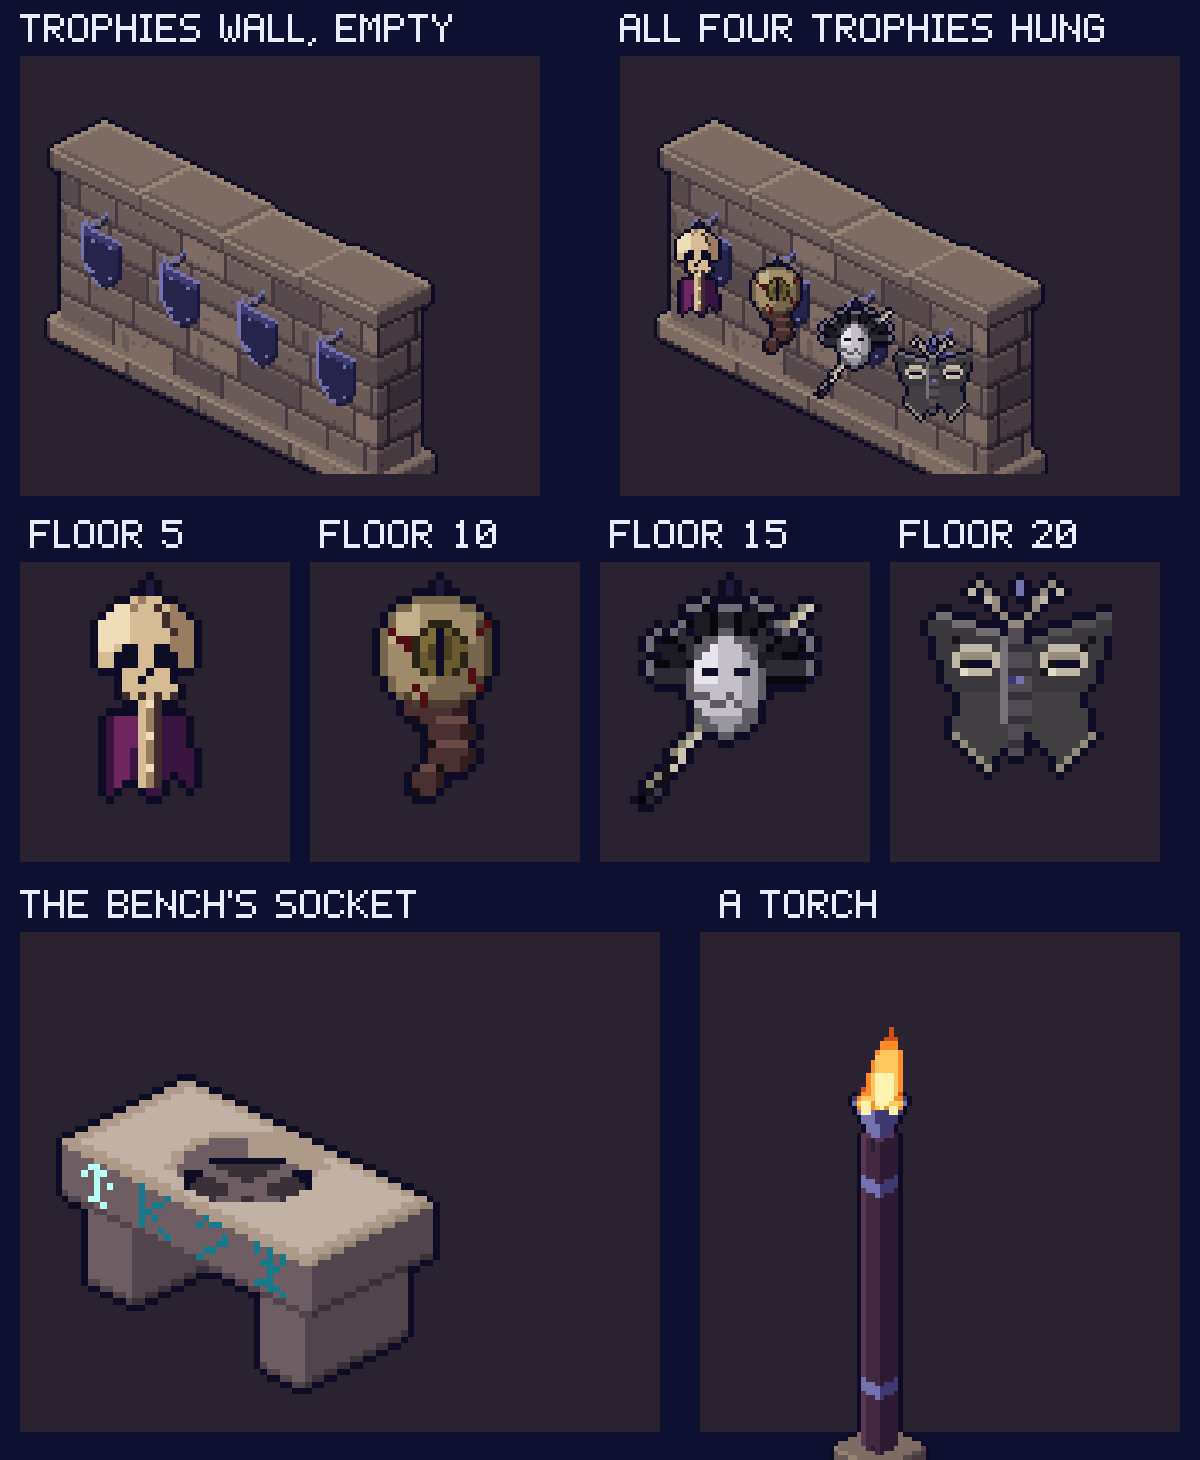
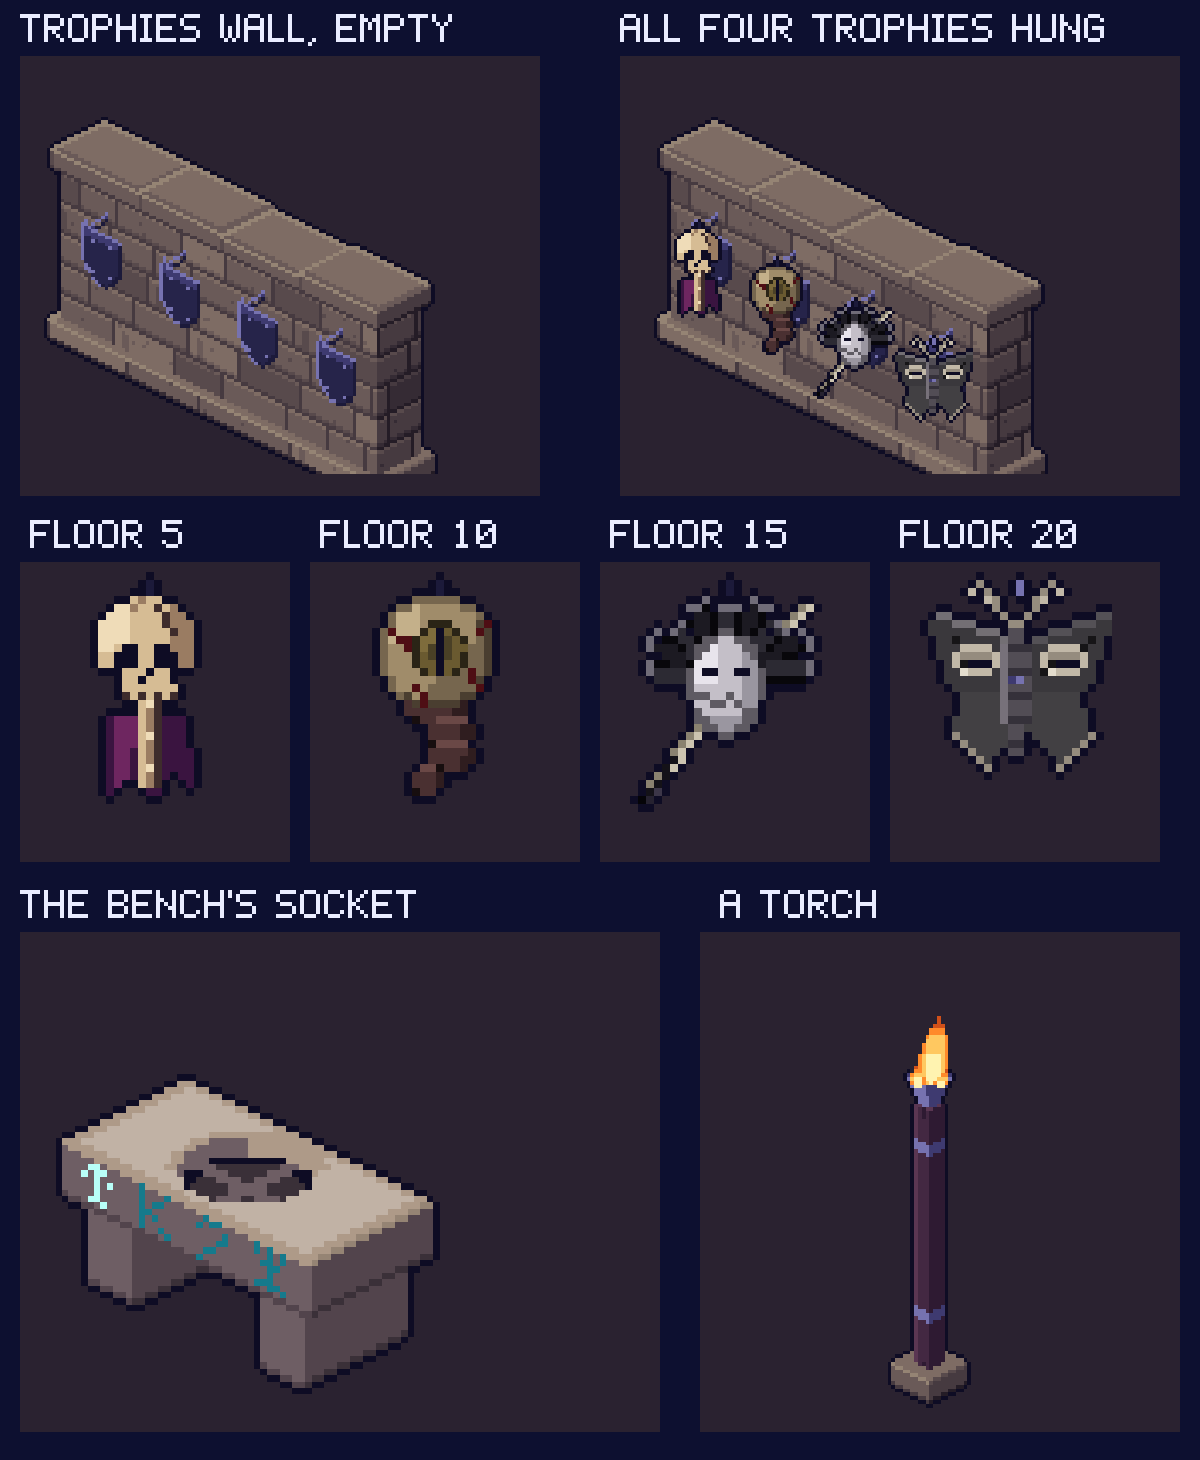
Endless town, step 4: the gate, the record stone, the trophies wall, the bench's socket and the torches drawn to the game's standard; the town alive
src/art/shaft_props.ts behind ENDLESS_TOWN (off; nothing of the game imports it): the gate standing free with its three word
sockets, the record stone and its notches (70 places), the trophies wall with four mounts (empty, or the Fleshmancer's,
the Swamp Colossus's, the Censor's, the Moth's trophy), the wordsmith's slab with the tablet's socket, four torches on posts
(12 flame frames at 30 a second). rimPieces() lays each: its tile, anchor, blocked tiles. RIM_LAYOUT.torches mended.
Pictures props_phone_1/2, rim3_whole, rim3_view_1/2, rim3_measure; the film rim_town.mp4 (tools/rim_town_film.mjs).
tests/shaft_rim.test.ts: the switch and imports, crisp, no enemy glow, each on the floor blocking its own tile, the flame whole.

Claude-Session: https://claude.ai/code/session_013AACgPRU4FucfYyJnBGYM1

Changed region(s): [[0.6783, 0.6781, 0.8325, 1.0]]

diff --git a/src/dev/preview_shaft_rim.ts b/src/dev/preview_shaft_rim.ts
@@ -1044,8 +1044,8 @@ function main3(mode: string, out: HTMLCanvasElement): void {
     draw(slab, 30, 940, 6.4);
     cap(g, 'A torch', 720, 890);
     pave(700, 932, 480, 500);
-    draw(paintTorchPost(), 820, 940, 4.6);
-    draw(paintTorchFlame(3), 820, 940, 4.6);
+    draw(paintTorchPost(), 880, 944, 3.8);
+    draw(paintTorchFlame(3), 880, 944, 3.8);
   }
   done();
 }

diff --git a/docs/mockups/endless_town/README.md b/docs/mockups/endless_town/README.md
@@ -385,3 +385,138 @@ the hand-over between passes is hidden under the brink and that the canyon's doo
 Shaft's Rim's stair right now, with its slope (pit_phone.png)?”, he answered: “Yes, draw the rest (Recommended)” (offered as:
 next, the gate, the record stone, the trophies wall, the socket in the bench and the torches, then a film of the town alive).
 SO THE GROUND, THE PIT AND ITS STAIR HAVE HIS YES. Next, step 4: the new things that stand on it, a film, and the hand-over.
+
+## Step 4: the things that stand on the rim, drawn to the game's standard; the town alive (11 Nov 2026)
+
+On his yes of 13:06 (“Yes, draw the rest (Recommended)”). The ground, the pit, the stair, the kerb and the landing are as he
+said yes to them, unchanged. Every station is on its locked tile.
+
+### What was drawn (`src/art/shaft_props.ts`, behind `ENDLESS_TOWN`, off; nothing of the game imports it)
+
+Each is built the way the town's own things are (`art/town.ts`): boxes on the grid (`art/isokit.ts`), two picture pixels to a
+game pixel, the game's dark seam round each, lit from the upper left. The stone is the shaft's top stone (the town storey of the
+splash), weathered darker.
+1. **THE GATE** (`paintGate`): an arch standing free at the back with no wall round it, on a worn plinth. Big dressed blocks in
+   courses, a ring of eleven wedge stones and a keystone round the doorway, one long lintel stone, a cap of five stones with the
+   last one broken off, and an old crack down the left pillar. The doorway opens on the dark: a plane of night halfway through
+   it. You can see the left jamb's inner side, and the threshold under it. On the lintel are **three round sockets**: dressed
+   rims, black hollows with a dim teal edge, empty, and no light.
+2. **THE RECORD STONE** (`paintRecord(n, newest)`): one tall slab with a rounded, leaning shoulder (built slice by slice, so it
+   is a real shape), on a foot of rough stones, with weather streaks. **The notches** are tally cuts in rows of ten: four upright
+   cuts and a fifth across them, each a dark cut with its far wall catching the light. There is room for 70 (seven rows). The
+   newest can glow the friend's cyan, with a small cyan light.
+3. **THE TROPHIES WALL** (`paintTrophyWall`, `paintTrophies(held)`, `paintTrophy(k)`): a low coursed wall with a cap. It has
+   **four mounts**, each an iron plate set in the wall with rivets and an iron bracket arm with a hook. The bosses are the ones
+   the game gives floors 5, 10, 15 and 20 (`game/bosses.ts` bossKind, `game/act1.ts`). Each trophy is made from that boss's own
+   look and colours, is original, and gives no light:
+   - floor 5, **the Fleshmancer**: the skull from his staff, burnt out, the sockets black, on the stub of his fused-bone staff,
+     with a rag of his plum robe;
+   - floor 10, **the Swamp Colossus** (its redo, `art/eye_colossus.ts`): the eye from the end of its tongue, put out. The white
+     has gone yellow and veined, the gold iris is dead to a dull brown, the slit is shut, and the tongue's stump hangs in its
+     sections;
+   - floor 15, **the Censor**: his blank white mask, cracked across, on his fan of black pages, with his brush across behind;
+   - floor 20, **the Moth**: its ash wings pinned open on a furred body, with feathered feelers, and the eye on each wing shut
+     for good.
+4. **THE TABLET'S SOCKET** (`paintSocketSlab(stone, frame)`): the game's own wordsmith's slab, with its feet, its runes along
+   the front, the word that lifts off it and its eight frames. The great rune in its top has given way to a round hollow cut in
+   four: the far wall of the hollow shows, and its floor is split by two ribs. It is empty.
+5. **THE FOUR TORCHES ON POSTS** (`paintTorchPost`, `paintTorchFlame(f)`): a squared post of the game's plum wood, aged dark,
+   with iron bands, on a stone foot, and an iron cup with three prongs at the head. The flame is the game's fire (`tongue`,
+   `EMBER`): a tall tongue and two small ones, 12 frames at 30 a second, with a warm pool of light on the paving.
+
+### ONE LIST FOR THE MAIN CHAT: everything the town gives and how to lay it
+
+Tiles are on the rim's 24 x 24 grid, and a tile is 32 x 16 game pixels. "Anchor" is the middle of a thing's foot, as the
+game's things have it.
+- **The ground**, as step 3 left it: `rimPlace()` gives `walk` (0 rock, 1 floor, 2 the pit), `town` (the game's own things on
+  their tiles) and `more`; `paintRimGround()` gives one picture (1360 x 776, top left at `GROUND.gx, gy`). There are 27 kerb
+  and landing posts (`rimPosts()`, `paintPost()`), the shaft's torches (`shaftTorches()`, `paintFlame(f)`, 12 frames at 30 a
+  second), and the far fire (`paintPitGlow()`, added at `pitGlowAt(t)`, a 2.6 s breath).
+- **The new things**, from `rimPieces()`: each has its station's tile, the floor point its anchor is laid on (`at`), the
+  tiles it blocks, and a point to sort it in depth by (`depth`, bigger x + y is nearer):
+  - gate: tile 7, 6; anchor at 8.5, 6.5; blocks 7, 6; 8, 6; 9, 6. Picture 124 x 210 (62 x 105 game pixels).
+  - record: tile 5, 9; anchor at 5.5, 9.5; blocks 5, 9. Picture 52 x 156.
+  - trophies: tile 10, 5; anchor at 11.5, 5.5; blocks 10, 5; 11, 5; 12, 5. Picture 124 x 120.
+  - four torches: at 6.6, 14.2 (by the stash); 6.6, 16.6 (by the Lexicon); 16.35, 11.6 (by the tent); 6.8, 9.3 (by the
+    record). Each blocks its own tile. Picture 26 x 124 for the post and for each flame frame (the same anchor).
+  - the wordsmith's slab with the socket: on the game's runeSlab tile (10, 18). It takes the place of the game's slab
+    picture, eight frames, picture 68 x 76.
+- **The three word sockets** (`GATE_SOCKETS`): their middles in game pixels from the gate's anchor are (-15.1, -63.4),
+  (-4.1, -57.9) and (6.9, -52.4), radius 3. The game draws its three words there (the towns now show them only in the gate's
+  panel, `ui/town.ts` gateSide).
+- **The notches** (`RECORD_NOTCHES`, 70 places): an upright's top, or the ends of the fifth across, in game pixels from the
+  record's anchor (the first is at (-7.4, -51.6)). An upright is one picture pixel wide and 3 game pixels tall. The record is
+  one picture, painted again when a notch is cut (about 2 to 3 ms): `paintRecord(n, newest)`.
+- **The four mounts** (`TROPHY_MOUNTS`, `TROPHY_BOSSES`): the hooks are at (-22.5, -26.5), (-11, -21), (0.5, -15) and
+  (12, -9.5) game pixels from the wall's anchor, in order for floors 5, 10, 15 and 20. Each mount is empty (bracket and plate)
+  or filled (that boss's trophy, 24 x 30, hung by its top middle from the hook). `paintTrophies(held)` makes the one picture.
+- **The bench's socket** (`BENCH_SOCKET`): its middle is (0, -11) game pixels from the slab's anchor, its radius 0.24 of a tile
+  (on the screen 5.4 by 2.7 game pixels), and it is 1.5 game pixels deep. The tablet and its quarters are set there.
+- **What moves, and at what rate**: each torch's flame, 12 frames at 30 a second, each torch at its own phase. The slab's word,
+  eight frames, as the game's. The shaft's torches and the far fire, as in step 3. Nothing else of the new things moves.
+- **The lights**: each torch frame has two orange lights (`EMBER`): the flame (r 11 to 12 game pixels, 0.5) and the pool on the
+  paving (r 23 to 24, 0.24). The newest notch has a cyan light (r 4.5 to 5, 0.45) when asked for. The slab keeps the game's own
+  cyan. The gate's sockets and the trophies give none. Nothing pink or gold glows on the rim.
+- **What it costs, measured** in this session's headless Chromium (three paintings, not on his phone): all the new things
+  together took 22 to 30 ms. The gate 10 to 14, the record 2 to 3, the trophies wall 4 to 5, a post under 1, the twelve flames
+  1.4 to 2.2, the eight slab frames 3 to 4. That is 23 small pictures in all (gate 1, record 1, wall 1, slab 8, post 1, flames
+  12; the four torches share the post and the flames), about half a megabyte as canvases. A frame costs a few more pictures
+  laid down.
+- **Layout mended**: three of the four torches in `RIM_LAYOUT.torches` had been copied wrong from the mock-up, one of them onto
+  the Lexicon's own tile. They are back where the mock-up he locked in had them, with two moves. The record's torch is a tile
+  back, beside the stone, because on its old tile it stood in front of the notches. The tent's torch is moved within its tile,
+  off the one way between the pit and the smithy.
+
+### Still the main chat's to decide
+
+- When this is the town (in endless, while a run is on), where he wakes, and what the waypoint leads back to.
+- The record's rules: what it counts, a notch a level or a mark every five, and what happens past 70. The trophies' rules:
+  whether a mount is filled while the quarter is held or once it has been won.
+- The tablet, set in the socket; the portal opening on the tongue's landing; the boss.
+- The eight other towns as looks to unlock or buy.
+- **Walking in this town**: the way between the pit and the smithy is one diagonal step between the anvil's tile and the tent's
+  torch. The wordsmith's ring is reached only diagonally between its standing stones. The way round the front right passes
+  under the bazaar's awning. The film keeps to the clear ways; the game's own walking rules decide the rest.
+
+### For the sound chat
+
+What in this town makes a sound, and when:
+- the shaft: a far, low rumble from the depth, always there, swelling with the far fire's breath (a 2.6 s round), and a cold
+  draught up out of the mouth, louder at the brink;
+- the four torches: a soft crackle and flutter near each, and the braziers as the game's;
+- a notch cut in the record stone as a new endless level is reached: a chisel's two or three strikes on stone, with a faint
+  bright ring as the new notch glows;
+- a trophy hung on its mount: iron on iron as it goes onto the hook, a dull knock against the wall;
+- the gate's three sockets as a word is set in one: the game's own sound for a word set on the gate.
+
+### Pictures and film (`pictures/`)
+
+- `props_phone_1.png` (1200 x 1200): the gate and the record, each at the game's size and twice, and the notches close.
+- `props_phone_2.png` (1200 x 1460): the trophies wall empty and full, the four trophies, the bench's socket and a torch.
+- `rim3_whole.png` (1200 x 624): the whole town, everything now drawn for real, with no labels.
+- `rim3_view_1.png`, `rim3_view_2.png` (1014 x 528): two phone screens at the game's zoom, the knight at the gate (with the
+  record and the trophies), and at the wordsmith's bench.
+- `rim3_measure.png` (948 x 1116): a piece of the Gate Ward (floor 11, from the game) above a piece of the rim's new things,
+  each taken at the same size on the screen and enlarged three times alike.
+- `rim_town.mp4`: 11.5 s, 30 fps, H.264 yuv420p, 1014 x 528, with a line of words under it. The knight walks round the pit with
+  the game's own walk (its frame set by how far he has gone) and stands as the game's knight stands. He starts by the smithy's
+  rack, passes the way down, stops at the trophies, the gate and the record, and goes on past the stranger and the stash to the
+  Lexicon, with the wordsmith's ring before him. The flames move, the far fire breathes and the townsfolk keep their own loops.
+  Every step is checked (`checkRoute()`: on floor, through no station or new thing, never at the kerb or a post). Made by
+  `node tools/rim_town_film.mjs <dir>`, then ffmpeg (its head says how).
+- Made by `node tools/preview.mjs src/dev/preview_shaft_rim.ts <out> W H <mode>`, modes `whole3`, `view3:1`, `view3:2`,
+  `props1`, `props2`, `check` (the route and the painting times, in the log).
+
+### Held to the measure
+
+`rim3_measure.png` puts the Gate Ward and the new things side by side. They have the same grain: flat tones, a seam of one
+pixel, the game's dark seam round each thing, and light in bands. The gate's blocks are bigger than the Gate Ward's house
+stones, because they are a monument's dressed blocks. That is the same grain at a bigger build, not rougher. The finest thing
+is the record's tally cut (one picture pixel), the same grain as the Gate Ward's window bars. Nothing is finer. Its tones sit
+with the Gate Ward's lit walls, a step warmer by the torches.
+
+### Not done
+
+- The way down's waypoint in the rim's stone, and the pit's lower storeys for a taller screen (step 3's "perhaps").
+- The tablet and its quarters, the portal and the final boss (other items).
+- The film does not go into the wordsmith's ring or round the bazaar: see "Walking in this town".
